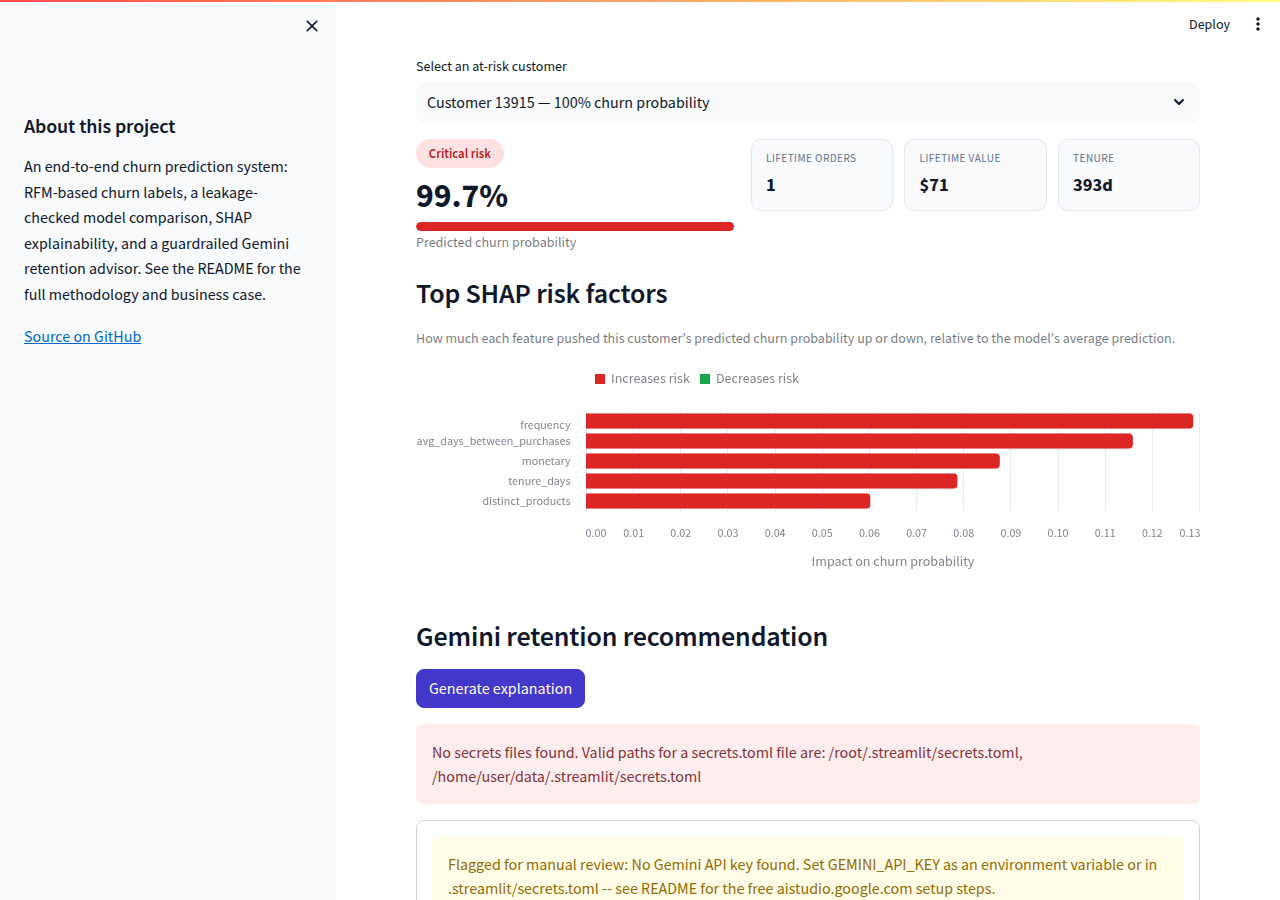
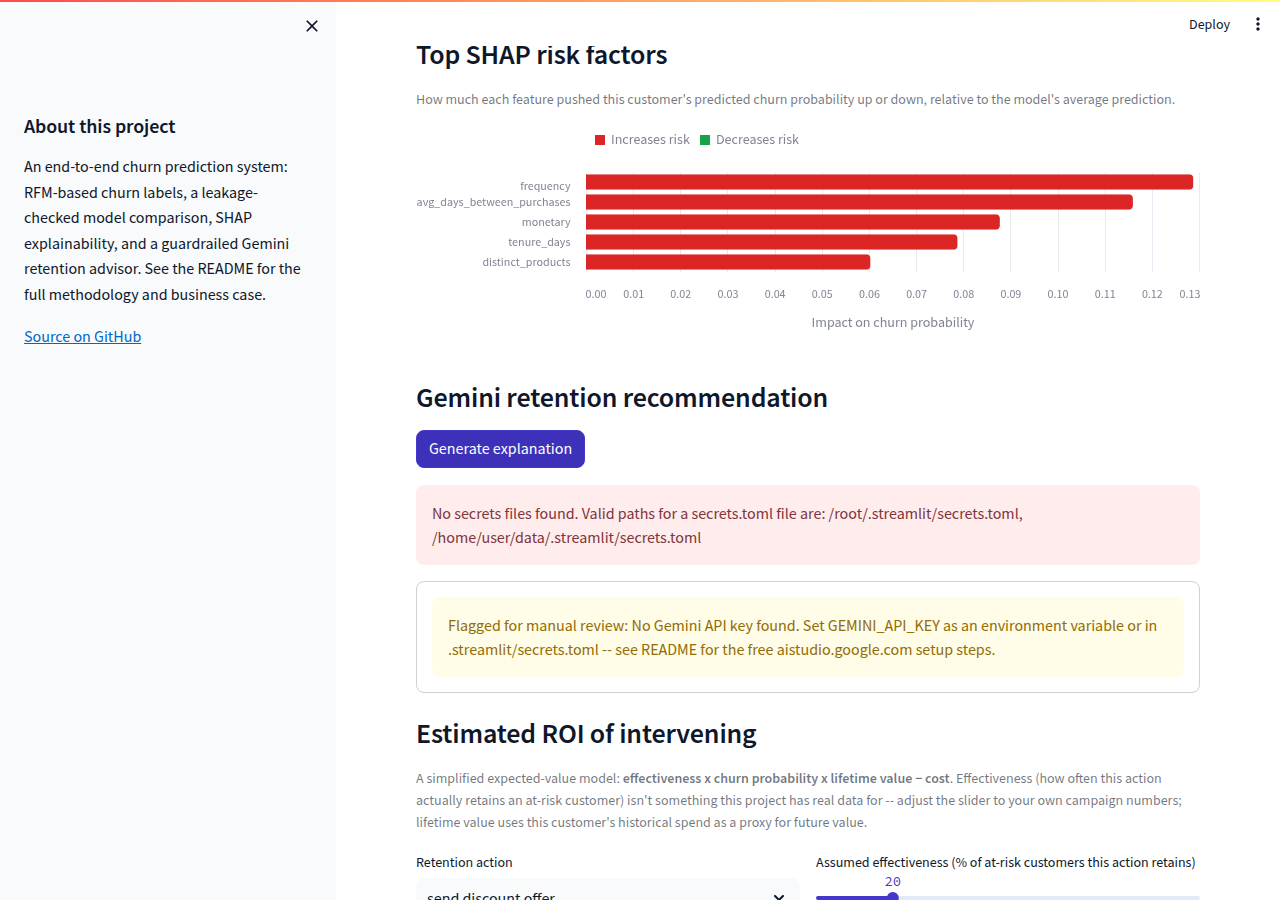
Make the interface more engaging: gauge, hover states, clickable chips
- Replaced the flat churn-probability bar with a pure-CSS conic-gradient
  ring gauge (no chart library involved, so no risk of repeating the
  earlier Altair/Streamlit rendering bug). Percentage and risk badge sit
  next to it; the fill transitions smoothly when a different customer
  is selected.
- Added hover-lift micro-interactions (subtle translateY + shadow) to
  the KPI cards and the mini-stat rows.
- The RAG tab's example questions are now clickable chip buttons that
  populate the question input directly (st.session_state-backed),
  instead of static italic text the user had to retype.
- st.balloons() fires on a successful (non-guardrailed) Gemini
  recommendation as a small reward moment.
- Restyled the lifetime-orders/value/tenure mini-stats as a compact
  label-left/value-right list next to the new gauge instead of a
  3-column grid, to fit the new layout.

Regenerated app_dashboard.png, app_gemini_response.png, app_rag_tab.png,
and app_demo.gif against the new UI. All 35 tests still pass (no
behavioral change, styling/interaction only).

Claude-Session: https://claude.ai/code/session_01Bmot2qUhBnoyU6j6dR2YAk

diff --git a/src/app.py b/src/app.py
@@ -57,23 +57,44 @@ h1 { letter-spacing: -0.02em; }
     flex: 1; min-width: 160px;
     background: #F8FAFC; border: 1px solid #E2E8F0; border-radius: 12px;
     padding: 0.85rem 1.1rem;
+    transition: transform 0.15s ease, box-shadow 0.15s ease, border-color 0.15s ease;
 }
+.stat-card:hover { transform: translateY(-2px); box-shadow: 0 6px 16px rgba(15, 23, 42, 0.08); border-color: #C7D2FE; }
 .stat-label { font-size: 0.72rem; font-weight: 600; color: #64748B; text-transform: uppercase; letter-spacing: 0.05em; margin-bottom: 0.3rem; }
 .stat-value { font-size: 1.4rem; font-weight: 700; color: #0F172A; }
 
-.risk-badge { display: inline-block; padding: 0.28rem 0.8rem; border-radius: 999px; font-weight: 600; font-size: 0.8rem; margin-bottom: 0.55rem; }
+.risk-badge { display: inline-block; padding: 0.28rem 0.8rem; border-radius: 999px; font-weight: 600; font-size: 0.8rem; }
 .risk-critical { background: #FEE2E2; color: #B91C1C; }
 .risk-high     { background: #FFEDD5; color: #C2410C; }
 .risk-elevated { background: #FEF9C3; color: #A16207; }
 
 .prob-value { font-size: 2.1rem; font-weight: 700; color: #0F172A; line-height: 1.1; }
 .prob-track { background: #E2E8F0; border-radius: 999px; height: 9px; width: 100%; overflow: hidden; margin-top: 0.5rem; }
-.prob-fill { height: 100%; border-radius: 999px; }
+.prob-fill { height: 100%; border-radius: 999px; transition: width 0.7s cubic-bezier(0.22, 1, 0.36, 1); }
 
-.mini-stat-row { display: flex; gap: 0.7rem; }
-.mini-stat { flex: 1; background: #F8FAFC; border: 1px solid #E2E8F0; border-radius: 10px; padding: 0.65rem 0.9rem; }
-.mini-label { font-size: 0.7rem; color: #64748B; text-transform: uppercase; letter-spacing: 0.04em; }
-.mini-value { font-size: 1.15rem; font-weight: 700; color: #0F172A; margin-top: 0.15rem; }
+.gauge-row { display: flex; align-items: center; gap: 1.1rem; }
+.gauge {
+    width: 128px; height: 128px; border-radius: 50%; flex-shrink: 0;
+    display: flex; align-items: center; justify-content: center;
+    transition: background 0.7s cubic-bezier(0.22, 1, 0.36, 1);
+}
+.gauge-inner {
+    width: 98px; height: 98px; border-radius: 50%; background: #FFFFFF;
+    display: flex; flex-direction: column; align-items: center; justify-content: center;
+    box-shadow: inset 0 0 0 1px #F1F5F9;
+}
+.gauge-value { font-size: 1.55rem; font-weight: 700; color: #0F172A; line-height: 1.05; }
+.gauge-sub { font-size: 0.62rem; color: #94A3B8; text-transform: uppercase; letter-spacing: 0.04em; margin-top: 0.15rem; }
+
+.mini-stat-row { display: flex; gap: 0.7rem; flex-direction: column; }
+.mini-stat {
+    background: #F8FAFC; border: 1px solid #E2E8F0; border-radius: 10px; padding: 0.55rem 0.9rem;
+    display: flex; align-items: baseline; justify-content: space-between;
+    transition: transform 0.15s ease, box-shadow 0.15s ease, border-color 0.15s ease;
+}
+.mini-stat:hover { transform: translateX(2px); box-shadow: 0 4px 10px rgba(15, 23, 42, 0.06); border-color: #C7D2FE; }
+.mini-label { font-size: 0.72rem; color: #64748B; text-transform: uppercase; letter-spacing: 0.04em; }
+.mini-value { font-size: 1.05rem; font-weight: 700; color: #0F172A; }
 
 .action-pill {
     display: inline-block; font-weight: 700; font-size: 0.9rem; color: #166534;
@@ -87,6 +108,12 @@ h1 { letter-spacing: -0.02em; }
 
 .ev-positive { color: #166534; }
 .ev-negative { color: #B91C1C; }
+
+/* nudge the "try a question" chip buttons in the RAG tab to look like pills, not full buttons */
+div[data-testid="stButton"] button {
+    transition: transform 0.12s ease;
+}
+div[data-testid="stButton"] button:hover { transform: translateY(-1px); }
 </style>
 """
 
@@ -192,15 +219,26 @@ def render_customer_explorer(model_bundle, shap_bundle, predictions, test_featur
 
     col1, col2 = st.columns([1, 1.4])
     with col1:
+        # A pure-CSS conic-gradient ring rather than a chart library -- cheap,
+        # zero extra rendering risk, and animates smoothly via the .gauge
+        # transition when a different customer is selected.
         st.markdown(
             f"""
-            <div class="risk-badge {tier_class}">{tier_label}</div>
-            <div class="prob-value">{prob:.1%}</div>
-            <div class="prob-track"><div class="prob-fill" style="width:{prob * 100:.1f}%; background:{tier_color};"></div></div>
+            <div class="gauge-row">
+                <div class="gauge" style="background: conic-gradient({tier_color} 0deg {prob * 360:.1f}deg, #E2E8F0 {prob * 360:.1f}deg 360deg);">
+                    <div class="gauge-inner">
+                        <div class="gauge-value">{prob:.1%}</div>
+                        <div class="gauge-sub">churn risk</div>
+                    </div>
+                </div>
+                <div>
+                    <div class="risk-badge {tier_class}">{tier_label}</div>
+                    <div style="margin-top: 0.5rem; font-size: 0.82rem; color: #64748B;">Predicted probability this customer stops purchasing.</div>
+                </div>
+            </div>
             """,
             unsafe_allow_html=True,
         )
-        st.caption("Predicted churn probability")
     with col2:
         st.markdown(
             f"""
@@ -275,6 +313,7 @@ def render_customer_explorer(model_bundle, shap_bundle, predictions, test_featur
             with st.container(border=True):
                 st.markdown(f'<div class="action-pill">{result["recommended_action"]}</div>', unsafe_allow_html=True)
                 st.write(_escape_markdown_dollars(result["explanation"]))
+            st.balloons()
 
     st.subheader("Estimated ROI of intervening")
     st.caption(
@@ -437,8 +476,16 @@ def render_ask_the_analysis():
         "for the retrieval + guardrail design."
     )
 
-    question = st.text_input("Your question", placeholder=EXAMPLE_QUESTIONS[0])
-    st.caption("Examples: " + " · ".join(f"*{q}*" for q in EXAMPLE_QUESTIONS[1:]))
+    if "rag_question" not in st.session_state:
+        st.session_state["rag_question"] = ""
+
+    st.caption("Try one:")
+    chip_cols = st.columns(len(EXAMPLE_QUESTIONS))
+    for col, q in zip(chip_cols, EXAMPLE_QUESTIONS):
+        if col.button(q, key=f"chip_{q}", use_container_width=True):
+            st.session_state["rag_question"] = q
+
+    question = st.text_input("Your question", key="rag_question", placeholder=EXAMPLE_QUESTIONS[0])
 
     if st.button("Ask", type="primary") and question.strip():
         with st.spinner("Retrieving context and calling Gemini..."):
